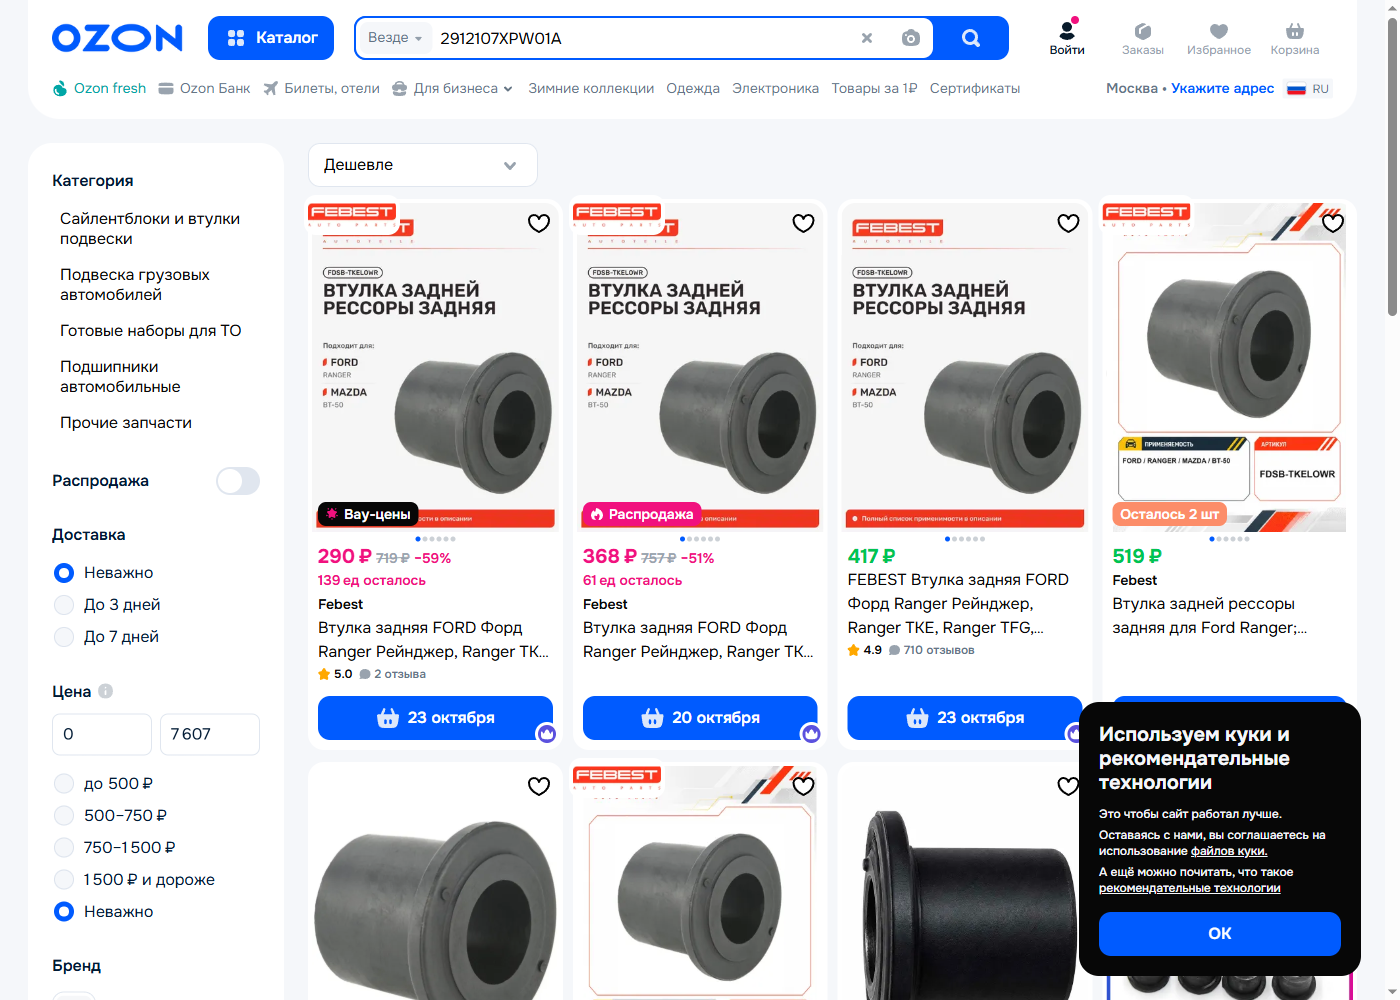
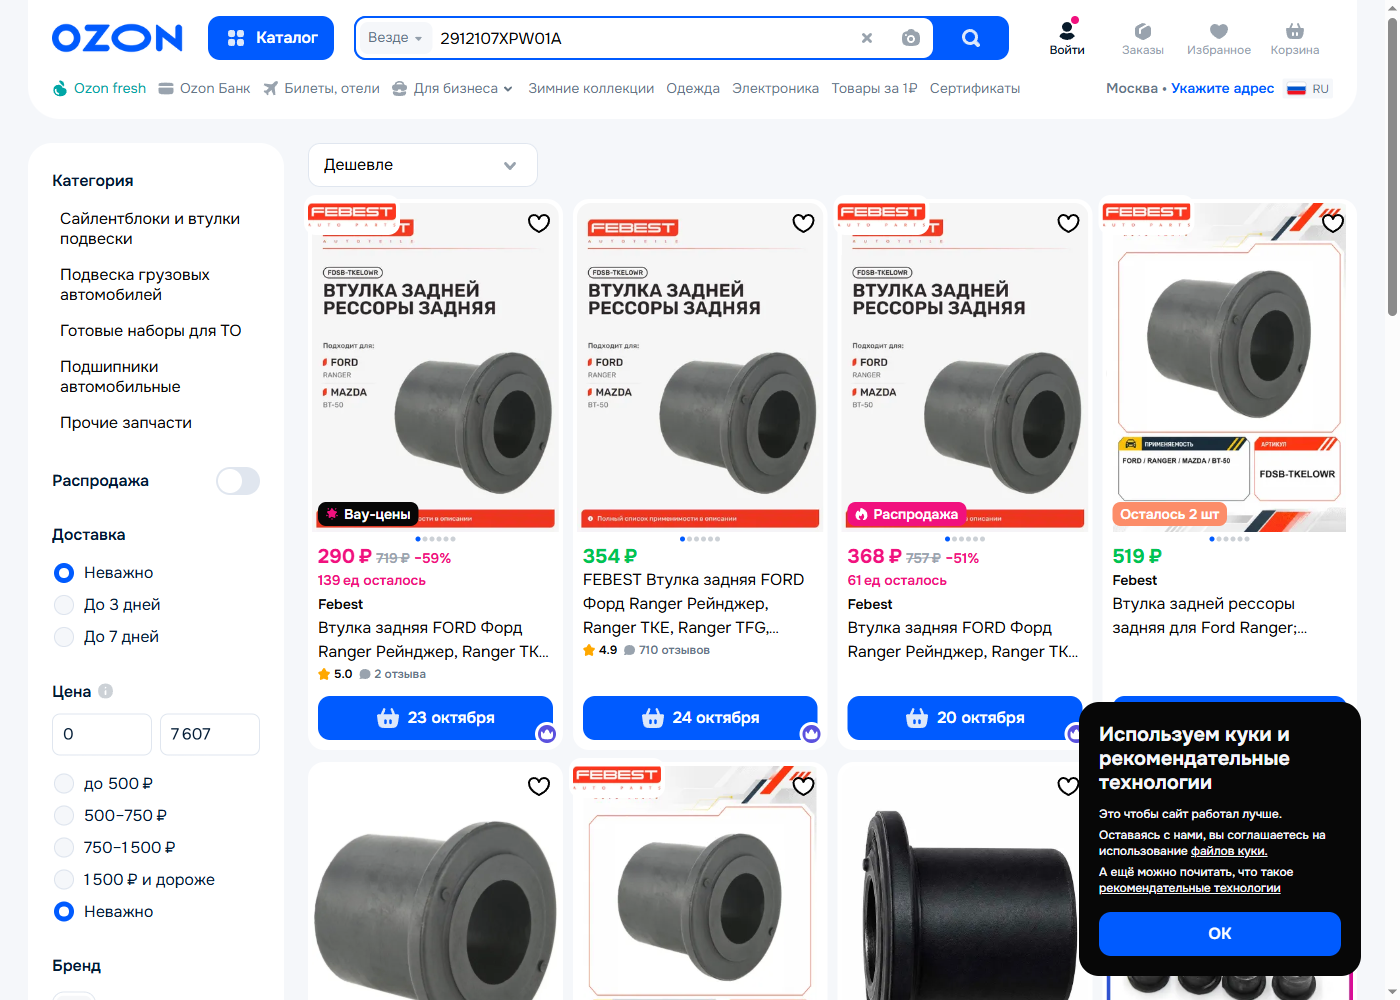
Заметка: что осталось по продажам

diff --git a/CLAUDE.md b/CLAUDE.md
@@ -71,3 +71,10 @@
 - Поиск WB по OE, сорт. «популярные»: берём топ-карточки; ТНВД и рампа (AliExpress) — «Нет данных».
 - WB продажи (плагин, текст JS, без снимков): масляный фильтр 3 карточки 16+18+19=53 шт / 28 653 ₽; колодки 2 карточки 11+2 шт / 185 612 ₽ (оригинал HAVAL ~19 000 ₽); стойка 1 карточка 6 шт / 24 932 ₽. Внесено в отчёт.
 - Яндекс Маркет в её Chrome (Развилка, 16.10): форсунка 1100100XED95 — оригинал 27 674 ₽ (1 шт.), «от дистрибьютора» 36 121 ₽, из-за рубежа 4 896–15 336 ₽; масл. фильтр: оригинал 2 077 ₽, Sumomoto 447 ₽, из-за рубежа 477–509 ₽. Без снимков, внесено в отчёт.
+
+## Что осталось (16.10.2026, вечер) — продажи по остальным деталям
+- Вита: продажи нужны обязательно; Playwright без плагина ей не нужен (запуски по остальным 34 деталям остановлены).
+- Порции по 5 через её Chrome (плагин MPSTATS), по одной странице с паузами 25–40 с. Порция 1: 3701200XED61 (ролик), 1111400XED96, 2912107XPW01A, 3407011XED95, 2912104XPW01A.
+  Остальные OE из списка — в `dokazatelstva\` не снято или снято Playwright'ом без продаж (ozon_/wb_ <OE>.png части деталей — не использовать как доказательство продаж).
+- Авито: снимки для ТНВД, рампы, помпы — только через её Chrome (скриншот ей самой или «Allow» в окне расширения).
+- Расширение Claude в Chrome часто отключается — ждать, пока она его разбудит.
